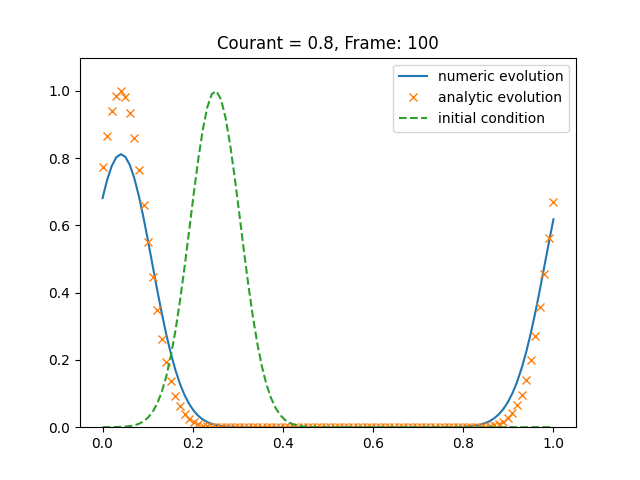
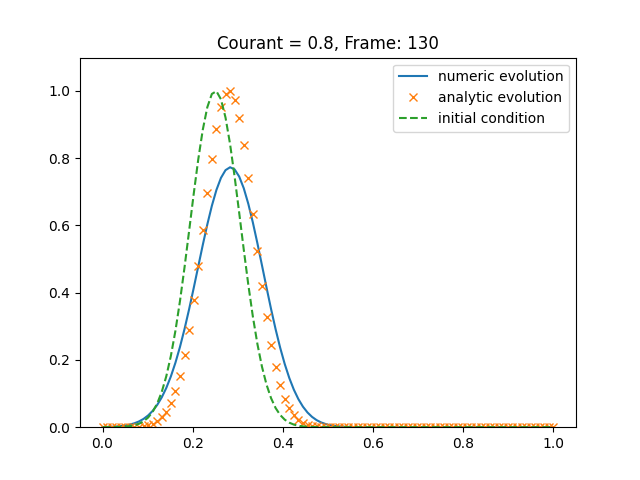
fixed animations

diff --git a/Ex3/Task2.py b/Ex3/Task2.py
@@ -52,7 +52,7 @@ def animations():
     dx = 0.01
     Nx = int(1/(dx+0))
     x_vals = np.linspace(0, 1, Nx)
-    steps = 100
+    steps = 130
 
     for co in [0.8, 1.0, 1.05]:
         print(f"Animating for Co={co}")
